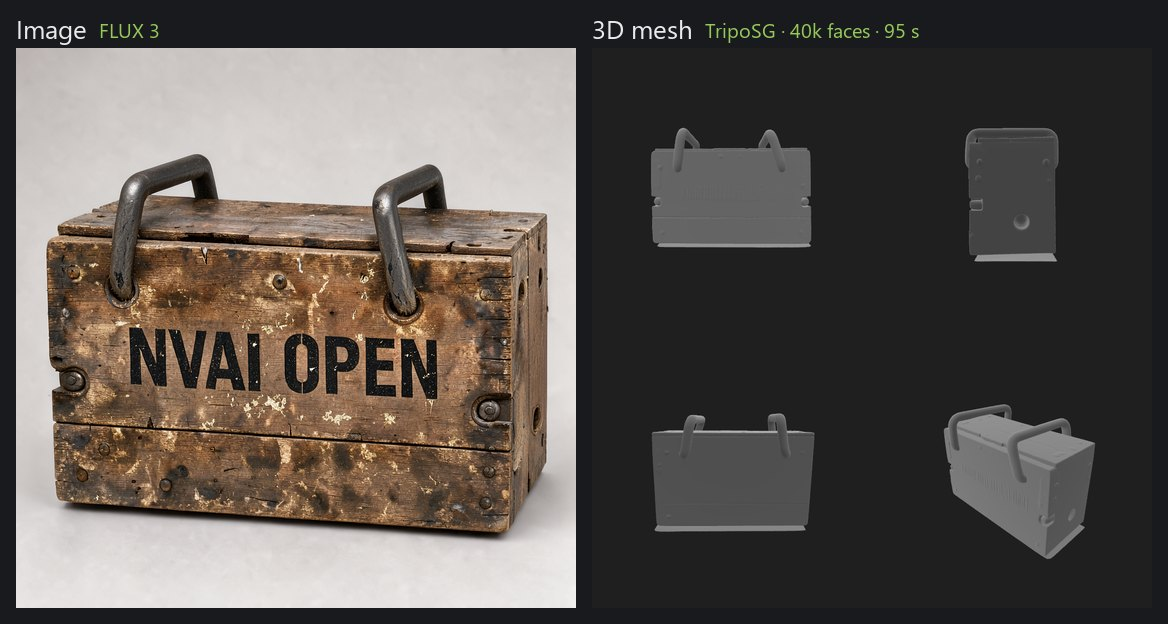
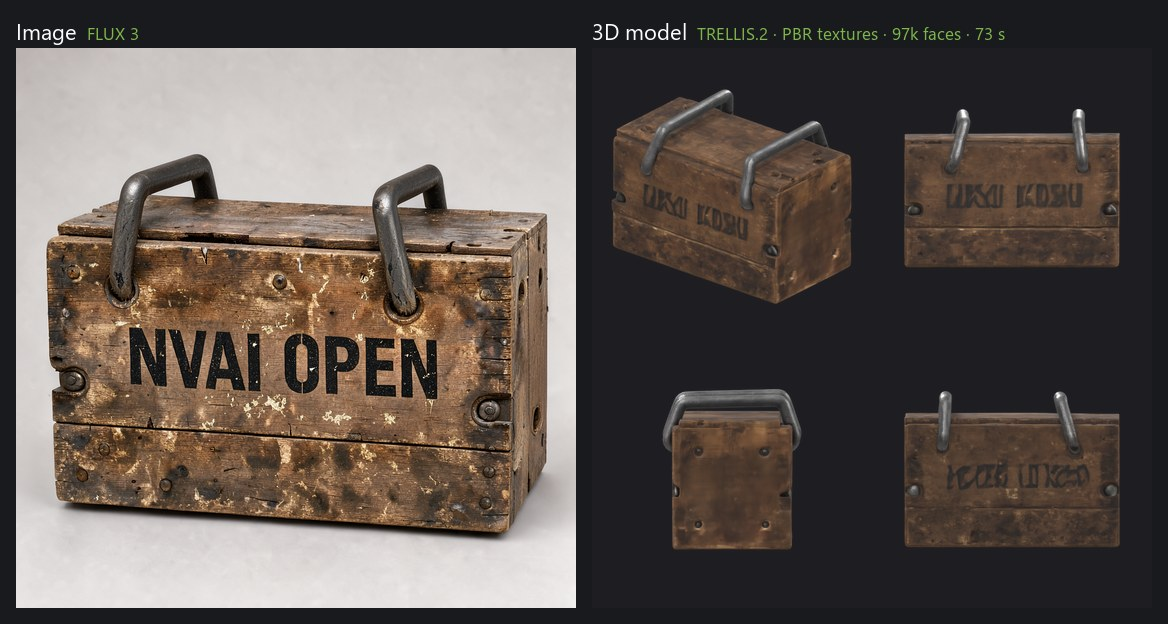
README: 3D section with TRELLIS.2 textures, measured times and the lettering limit

diff --git a/README.md b/README.md
@@ -33,7 +33,7 @@ NV-AI was built primarily in German. The English interface and docs are new, so 
 
 - **Images**: FLUX 3 Image Klein, Qwen-Image-2512 and more. Text to image, editing with reference images, inpainting with a mask.
 - **✨ Expand prompt**: turns a few words into a full image description, for every image model (next version).
-- **3D models**: turn an image into a 3D mesh (GLB) with TripoSG.
+- **3D models**: turn an image into a 3D model (GLB), with PBR textures via TRELLIS.2 or as a plain shape via TripoSG.
 - **Audio and video**: sound effects and music (Stable Audio Open, ACE-Step), short clips (Wan, LTX-Video).
 - **Model manager**: downloads models from Hugging Face, suggests the ones that fit your graphics card, and has a search for more models. Before anything is downloaded, NV-AI checks whether the file will actually run.
 - **Claude Code**: an MCP server, so Claude can generate assets for you directly (see [docs/CLAUDE_CODE.md](docs/CLAUDE_CODE.md)).
@@ -104,11 +104,13 @@ With just the words, Qwen-Image-2512 made a warrior in decorated leather armor h
 
 ### 3D: from an image to a model
 
-Make an image of an object, then turn it into a 3D mesh. TripoSG (MIT license) builds the geometry in about one to one and a half minutes on my card. The result is a GLB file you can use in Unity, Blender or a game engine of your choice. It is an untextured mesh, so plan some cleanup (retopology) before it goes into a game.
+Make an image of an object, then turn it into a 3D model. **For textures, use TRELLIS.2** (MIT license): it builds the geometry and paints color, metal and roughness as PBR textures (2048²) with UVs, so the GLB file goes straight into Unity, Blender or the game engine of your choice. On my card a model takes about 75 seconds, the first one after a start about two and a half minutes because the model has to load. It needs about 14 GB VRAM and a 16 GB download once. TripoSG (MIT) only builds the grey shape; it is the choice if you put your own materials on anyway.
 
-![From image to 3D mesh](docs/images/image-to-3d.jpg)
+![From image to textured 3D model](docs/images/image-to-3d.jpg)
 
-3D is part of the Windows setup (choose "Full installation"). TRELLIS.2 with PBR textures is available when you install from source.
+Wood grain, wear, the iron handles and the bolts come out well. Lettering does not: TRELLIS.2 paints its own texture instead of copying the photo, so "NVAI OPEN" turned into made-up characters, even at the higher 1024 resolution (which took 15 minutes instead of 75 seconds). Put text and decals on afterwards, and plan some cleanup (retopology) before a model goes into a game.
+
+3D is part of the Windows setup (choose "Full installation"). TRELLIS.2 is available when you install from source; the 3D page of the web interface points this out and offers the download.
 
 ### iOS app (closed beta)
 
@@ -173,7 +175,7 @@ NV-AI ist primär auf Deutsch entstanden. Die englische Oberfläche und Doku sin
 
 - **Bilder**: FLUX 3 Image Klein, Qwen-Image-2512 und weitere. Text zu Bild, Bearbeiten mit Referenzbildern, Füllen mit Maske.
 - **✨ Prompt ausbauen**: macht aus wenigen Worten eine volle Bildbeschreibung, für jedes Bildmodell (nächste Version).
-- **3D-Modelle**: aus einem Bild ein 3D-Modell (GLB) mit TripoSG.
+- **3D-Modelle**: aus einem Bild ein 3D-Modell (GLB), mit PBR-Texturen über TRELLIS.2 oder als reine Form über TripoSG.
 - **Audio und Video**: Soundeffekte und Musik (Stable Audio Open, ACE-Step), kurze Clips (Wan, LTX-Video).
 - **Modellverwaltung**: lädt Modelle von Hugging Face, schlägt die zur Grafikkarte passenden vor und hat eine Suche nach weiteren Modellen. Vor jedem Download prüft NV-AI, ob die Datei hier überhaupt läuft.
 - **Claude Code**: ein MCP-Server, über den Claude direkt Assets erzeugen kann (siehe [docs/CLAUDE_CODE.md](docs/CLAUDE_CODE.md)).
@@ -244,11 +246,13 @@ Mit den drei Worten machte Qwen-Image-2512 einen Krieger in verzierter Lederrüs
 
 ### 3D: vom Bild zum Modell
 
-Erst ein Bild eines Objekts erzeugen, dann daraus ein 3D-Modell machen. TripoSG (MIT-Lizenz) baut die Geometrie auf meiner Karte in etwa ein bis anderthalb Minuten. Heraus kommt eine GLB-Datei für Unity, Blender oder eine andere Engine. Das Modell ist untexturiert und sollte vor dem Einsatz im Spiel noch nachbearbeitet werden (Retopologie).
+Erst ein Bild eines Objekts erzeugen, dann daraus ein 3D-Modell machen. **Für Texturen TRELLIS.2 nehmen** (MIT-Lizenz): Es baut die Geometrie und malt Farbe, Metall und Rauheit als PBR-Texturen (2048²) mit UVs, die GLB-Datei geht also direkt nach Unity, Blender oder in die Engine der Wahl. Auf meiner Karte dauert ein Modell rund 75 Sekunden, das erste nach dem Start rund zweieinhalb Minuten, weil das Modell erst geladen wird. Es braucht etwa 14 GB VRAM und einmal 16 GB Download. TripoSG (MIT) baut nur die graue Form; das passt, wenn ohnehin eigene Materialien draufkommen.
 
-![Vom Bild zum 3D-Modell](docs/images/image-to-3d.jpg)
+![Vom Bild zum texturierten 3D-Modell](docs/images/image-to-3d.jpg)
 
-3D gehört zum Windows-Setup (Auswahl „Vollständige Installation“). TRELLIS.2 mit PBR-Texturen gibt es bei der Installation aus dem Quelltext.
+Holzmaserung, Abnutzung, die Eisengriffe und die Schrauben kommen gut heraus. Schrift nicht: TRELLIS.2 malt die Textur selbst, statt das Foto zu kopieren, deshalb wurde „NVAI OPEN“ zu erfundenen Zeichen, auch in der höheren Auflösung 1024 (die 15 Minuten statt 75 Sekunden brauchte). Schrift und Aufkleber besser nachträglich aufbringen, und vor dem Einsatz im Spiel etwas Nacharbeit einplanen (Retopologie).
+
+3D gehört zum Windows-Setup (Auswahl „Vollständige Installation“). TRELLIS.2 gibt es bei der Installation aus dem Quelltext; die 3D-Seite der Weboberfläche weist darauf hin und bietet den Download an.
 
 ### iOS-App (geschlossene Beta)
 
